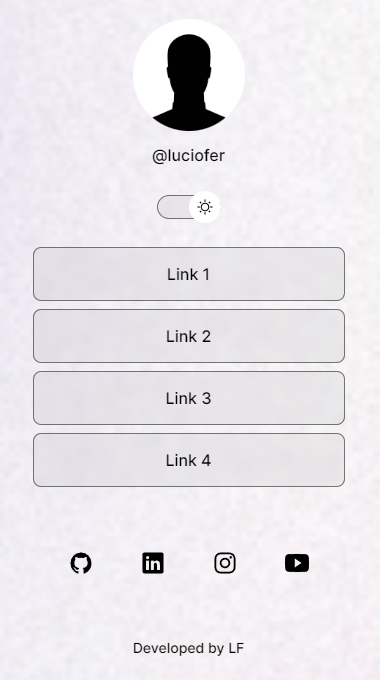
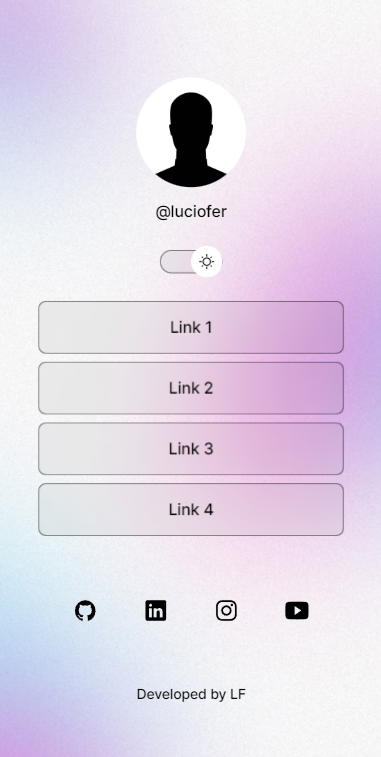
added media, changed the background images

diff --git a/style.css b/style.css
@@ -12,7 +12,7 @@
     --stroke-color: rgba(255, 255, 255, 0.50);
     --surface-color: rgba(255, 255, 255, 0.10);
     --surface-color-hover:rgb(255, 255, 255, 0.05);
-    --social-link-hover:rgba(255, 255, 255, 0.20);
+    --highlight-color:rgba(255, 255, 255, 0.20);
     --switch-bg-url:url('assets/moon-stars.svg')
 }
 
@@ -22,7 +22,7 @@
     --stroke-color: rgba(0, 0, 0, 0.50);
     --surface-color: rgba(0, 0, 0, 0.05);
     --surface-color-hover:rgba(0, 0, 0, 0.02);
-    --social-link-hover:rgba(0, 0, 0, 0.10);
+    --highlight-color:rgba(0, 0, 0, 0.10);
     --switch-bg-url:url('assets/sun.svg')
 }
 
@@ -80,11 +80,16 @@ body * {
     left: 0;
     transform: translateY(-50%);
     top: 50%;
+
+    animation: slide-back 0.2s;
 }
 
 .light #switch button {
-    right: 0;
-    left: initial;
+    animation: slide-forward 0.2s forwards;
+}
+
+#switch button:hover {
+    outline: 8px solid var(--highlight-color);
 }
 
 #switch span {
@@ -146,11 +151,43 @@ font-size: 24px;
 }
 
 #social-links a:hover {
-    background-color: var(--social-link-hover);
+    background-color: var(--highlight-color);
 }
 
 footer{
     padding: 24px 0;
     text-align: center;
     font-size: 14px;
+}
+
+/* media */
+
+@media (min-width:700px){
+    :root{
+        --bg-url: url('assets/bg-desktop.jpg');
+    }
+
+    .light {
+        --bg-url: url('assets/bg-desktop-light.jpg');
+    }
+}
+
+/* Animation*/
+
+@keyframes slide-forward{
+    from {
+        left:0;
+    }
+    to {
+        left: 50%;
+    }
+}
+
+@keyframes slide-back{
+    from{
+        left:50%;
+    }
+    to {
+        left:0;
+    }
 }
